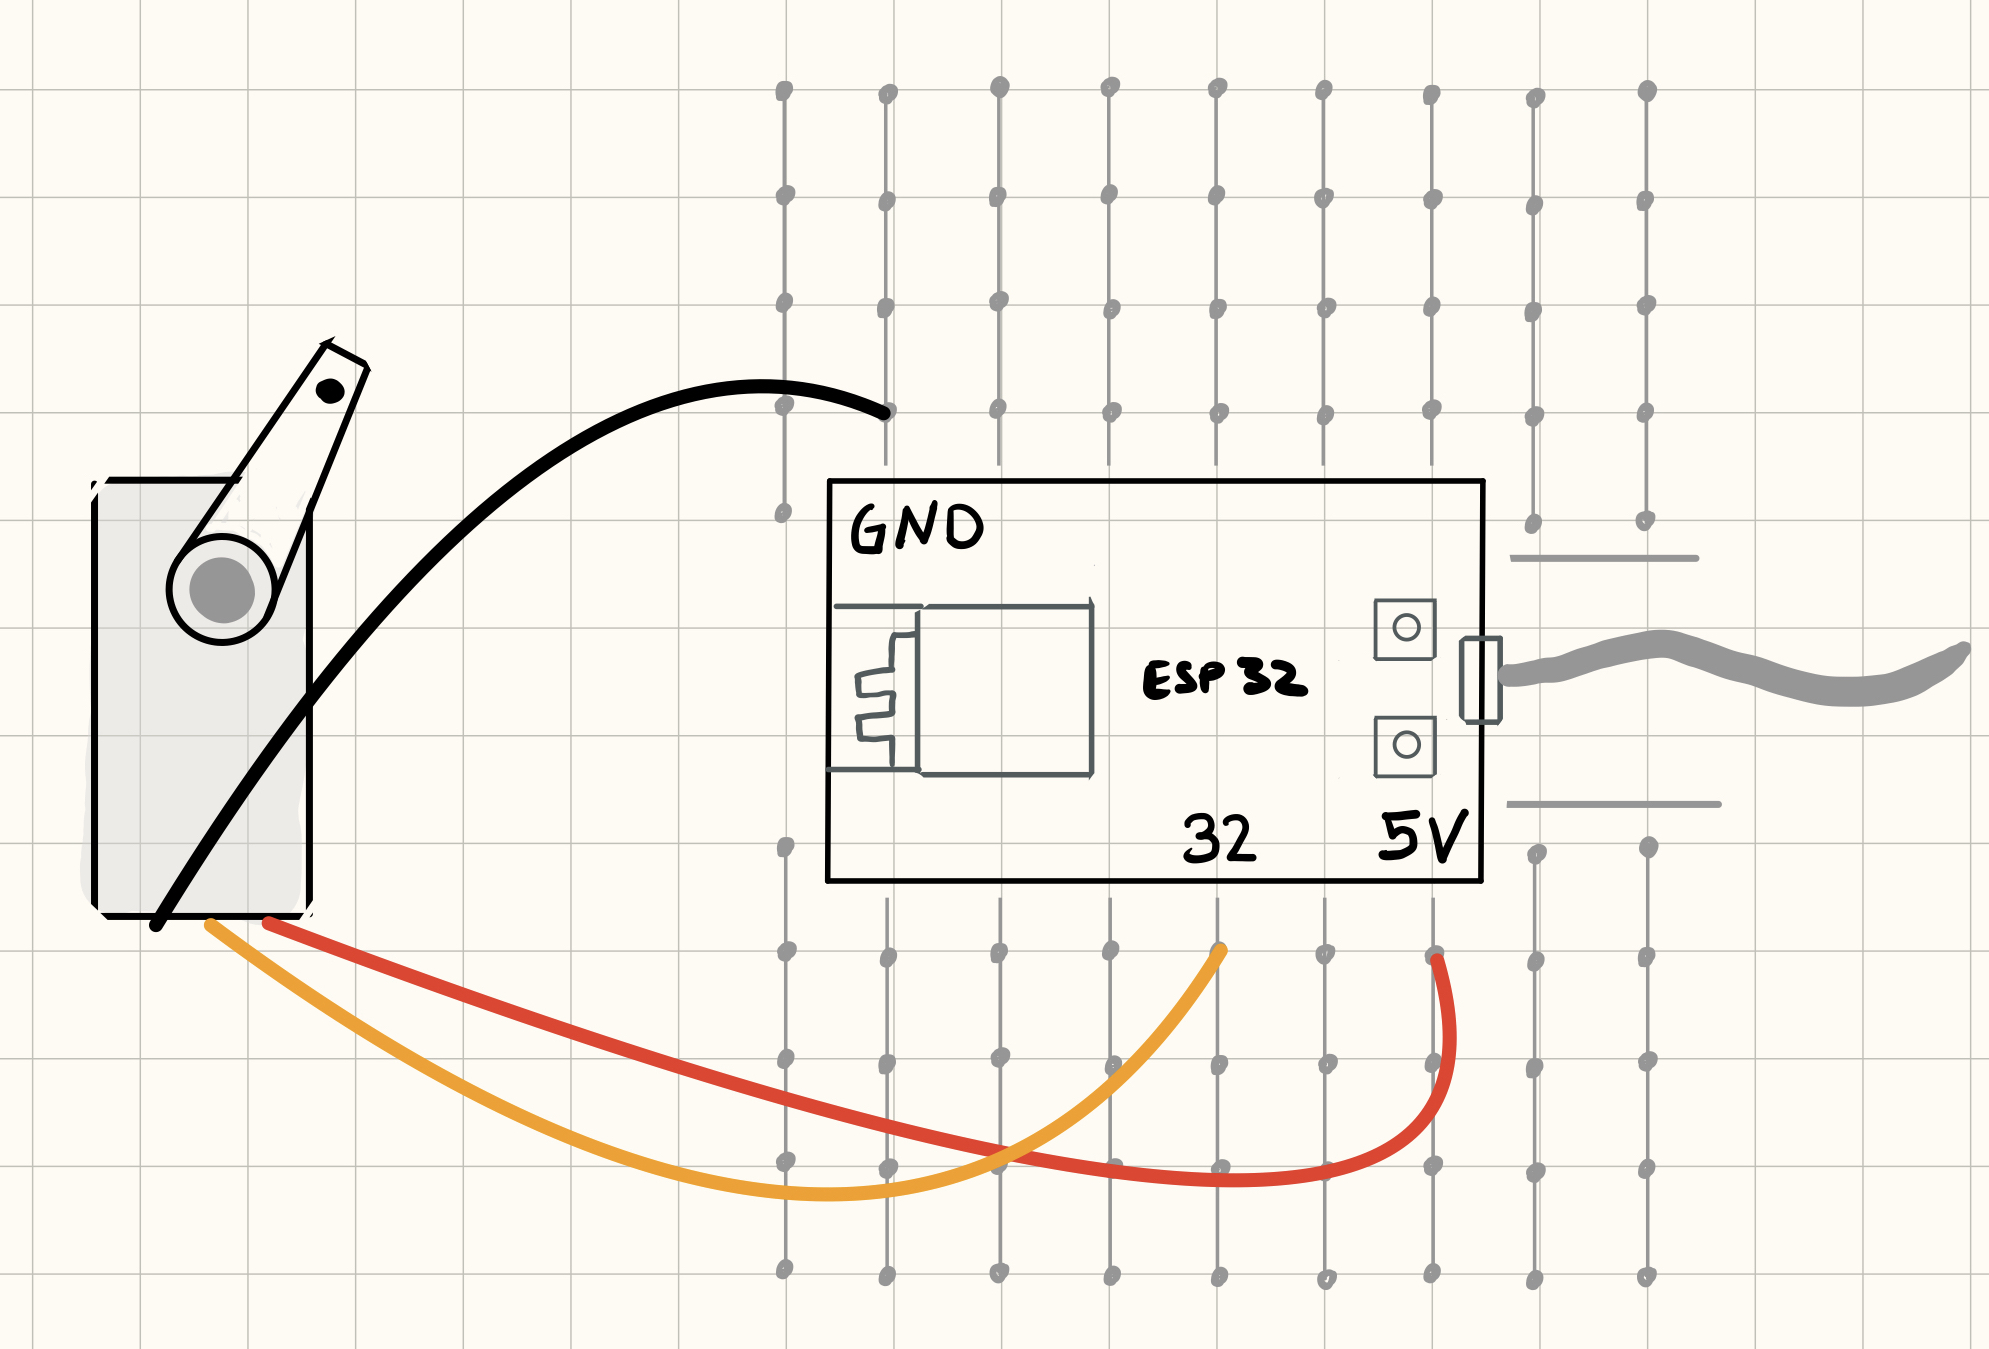
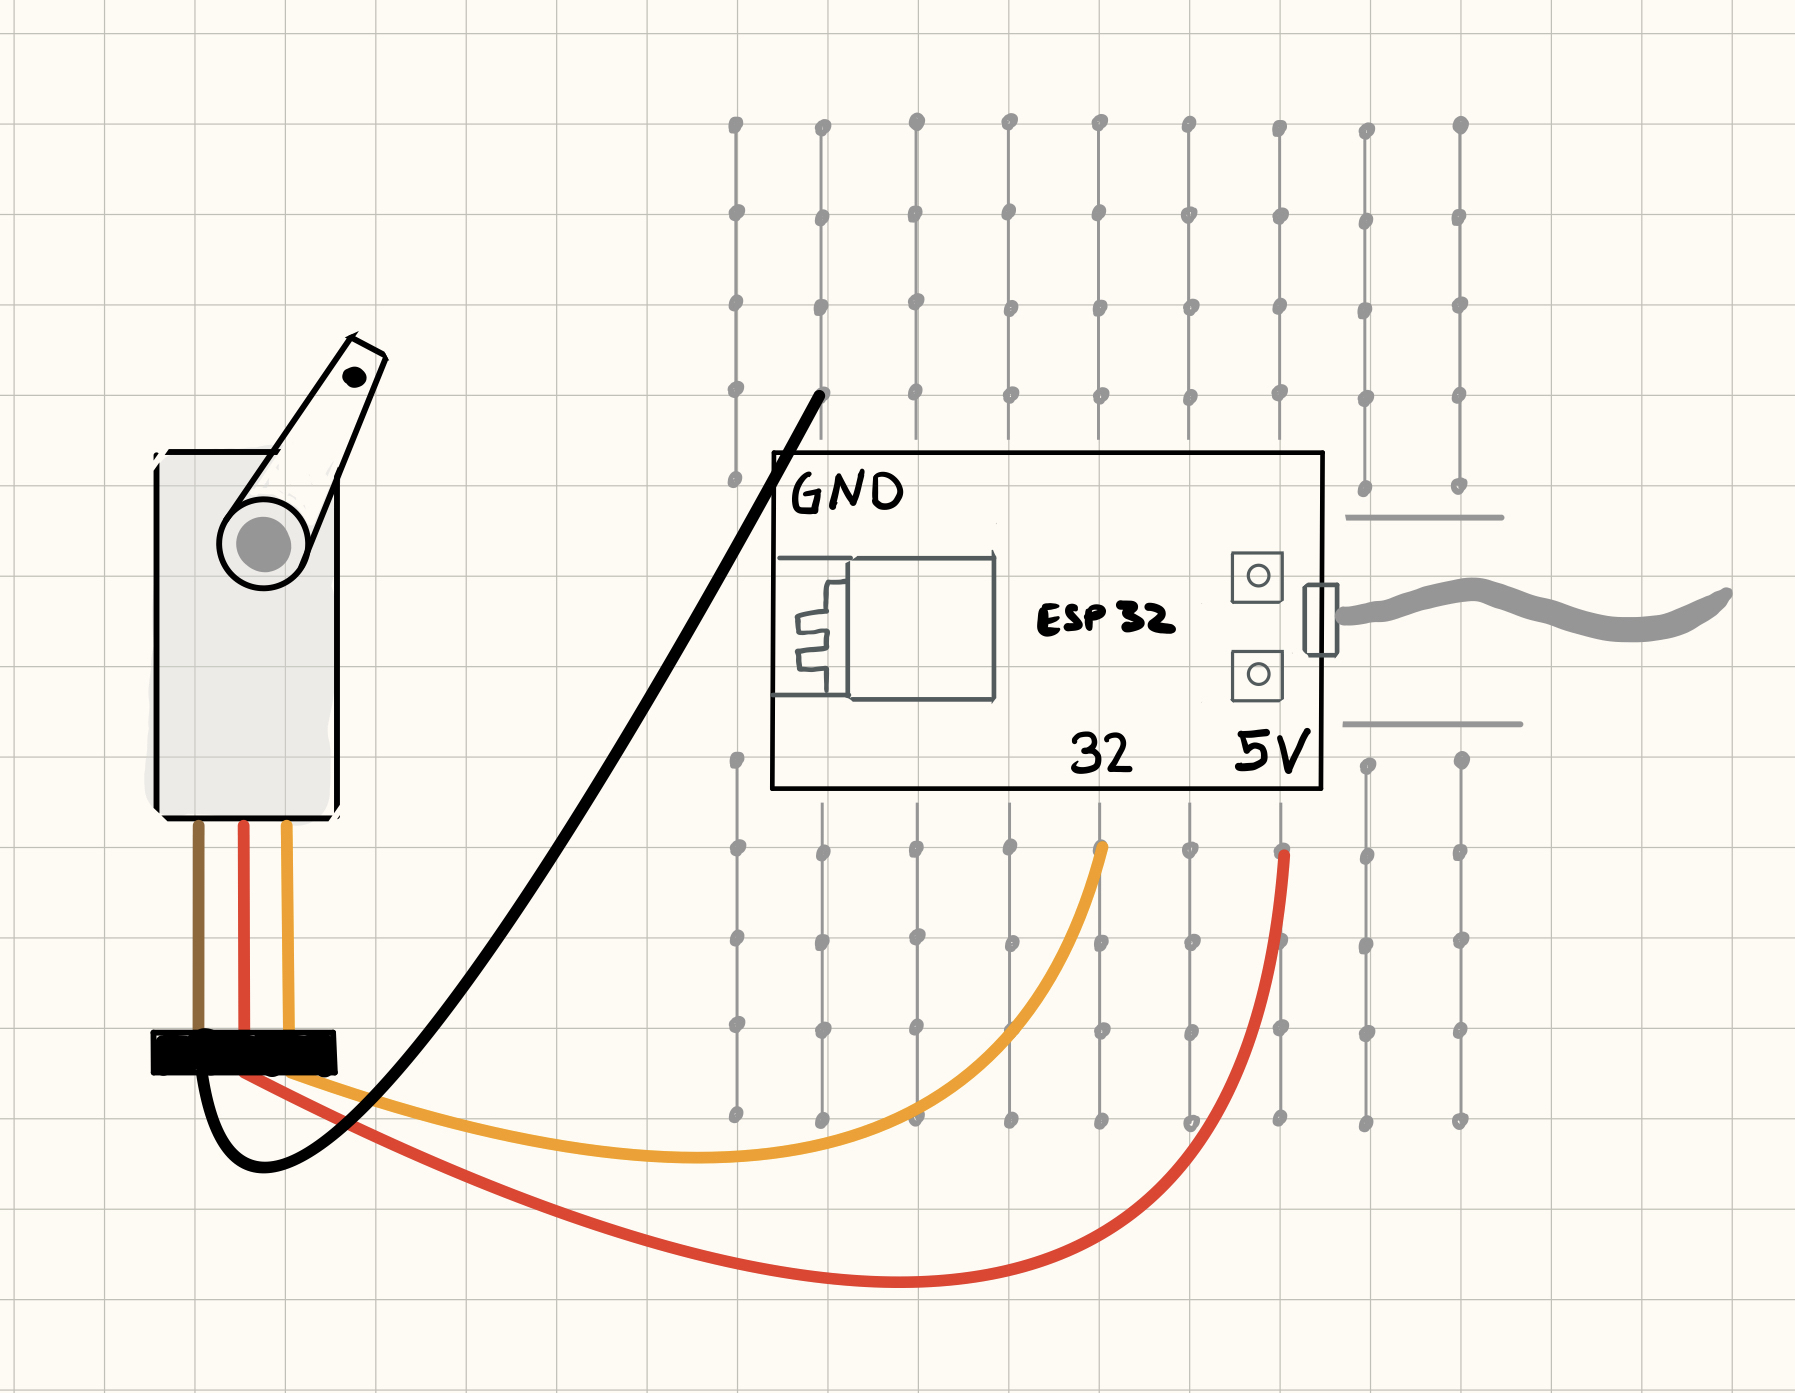
nye bilder pluss retting av skrivefeil

diff --git a/Leksjoner/Servo/README.md b/Leksjoner/Servo/README.md
@@ -17,9 +17,17 @@ I denne leksjonen skal vi teste ut på koble servomotor til mikrokontrolleren.
 
 ### Konstruksjon
 
+Sett armen på servoen slik:
+![](./img/servo_uten_arm.png)
+![](./img/servo_med_arm.png)
+
+
+Koble kretsen slik:
 ![](./img/diagram.jpeg)
 ![](./img/bb1.png)
 ![](img/bb_side.png)
+
+
 
 ### TM1638 Driver
 
@@ -64,4 +72,4 @@ void loop() {
 
 ```
 
-Når du kjører koden, styrer mikrkontrolleren servomotoren slik at den går sakte i en retning frem til 180 grader og deretter raskt tilbake til 0 grader.
+Når du kjører koden, styrer mikrokontrolleren servomotoren slik at den går sakte i en retning frem til 180 grader og deretter raskt tilbake til 0 grader.
